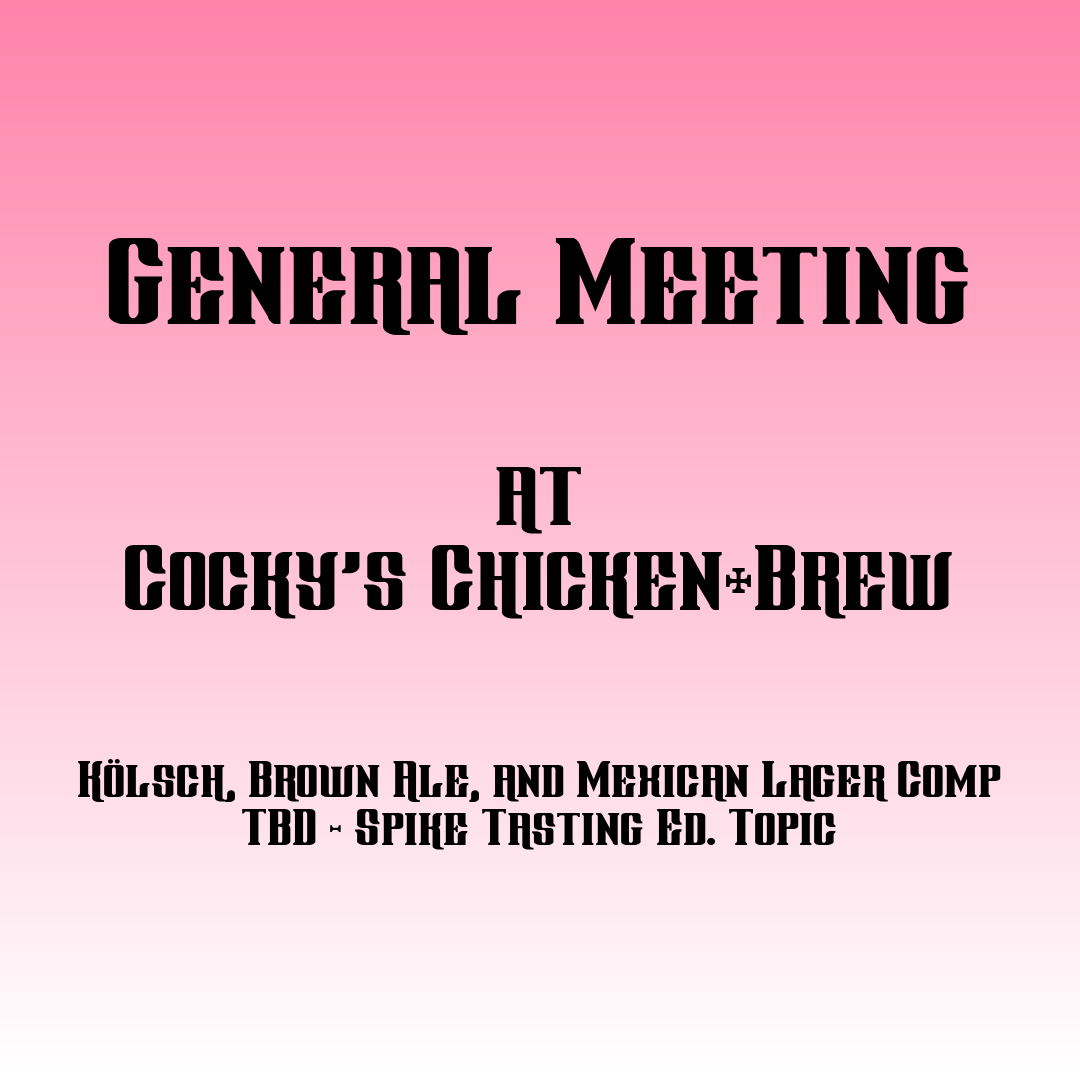
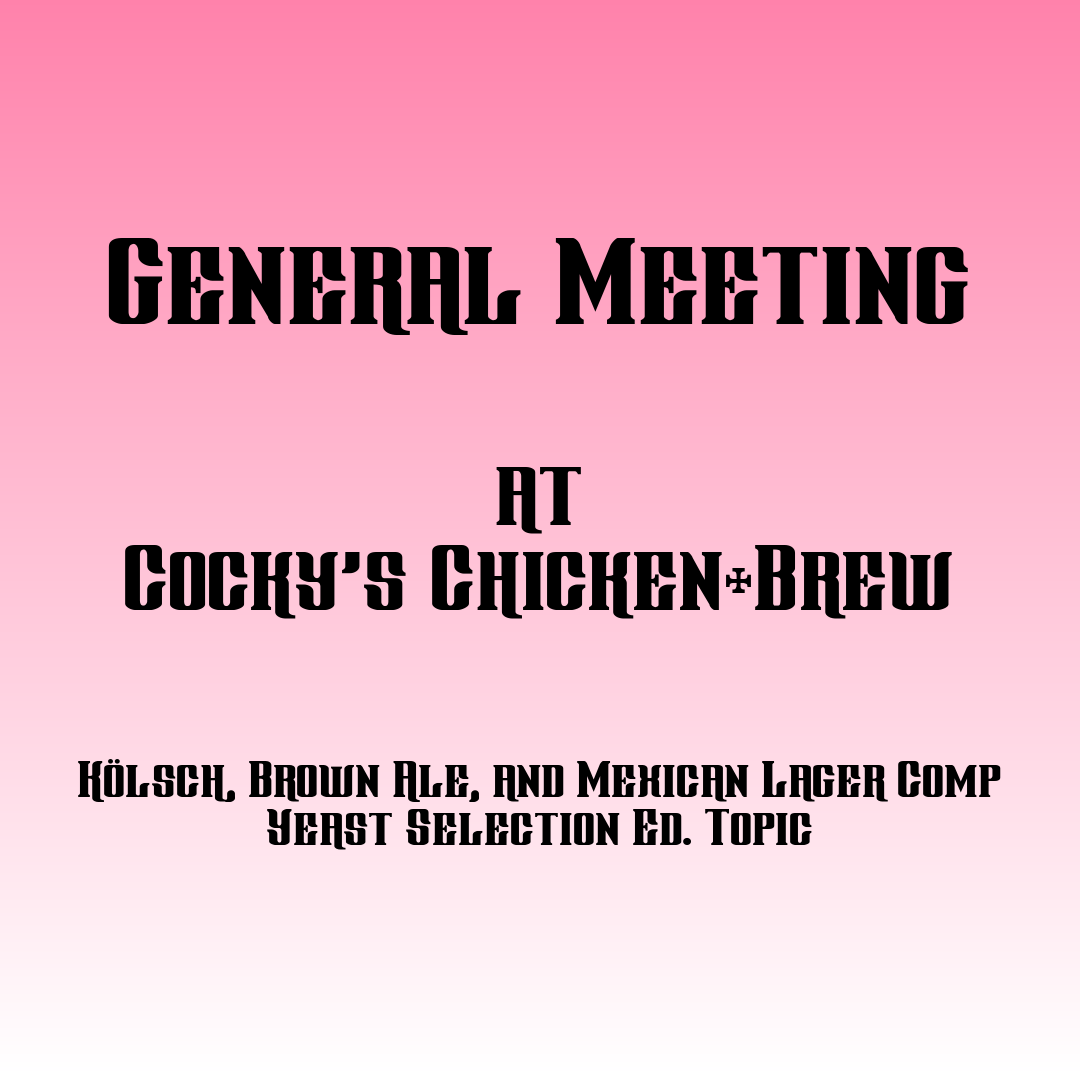
add meetings through june

Changed region(s): [[0.2139, 0.7333, 0.7944, 0.7944]]

diff --git a/site/content/events/2025-02-gm/index.md b/site/content/events/2025-02-gm/index.md
@@ -1,6 +1,6 @@
 ---
 title: February General Meeting
-date: 2024-12-02T13:47:35Z
+date: 2025-02-14T13:08:43Z
 startDate: 2025-02-20 18:00:00 -0700 MST
 endDate:  2025-02-20 20:00:00 -0700 MST
 location: Cocky's Chicken+Brew
@@ -13,7 +13,7 @@ General Meeting
 February 20 6pm  
 Cocky's Chicken+Brew  
 Gauntlet: Kölsch, Brown Ale, and Mexican Lager  
-Ed Topic: TBD - Spike Tasting  
+Ed Topic: Yeast Selection  
   
 Notes:  
   

diff --git a/site/content/events/2025-03-gm/index.md b/site/content/events/2025-03-gm/index.md
@@ -1,0 +1,21 @@
+---
+title: March General Meeting
+date: 2025-02-14T13:08:58Z
+startDate: 2025-03-20 18:00:00 -0700 MST
+endDate:  2025-03-20 20:00:00 -0700 MST
+location: Cocky's Chicken+Brew
+event: true
+---
+
+![image](event.png)
+ 
+General Meeting  
+March 20 6pm  
+Cocky's Chicken+Brew  
+Gauntlet: Oatmeal Stout  
+Ed Topic: Oxidation - Spike Tasting  
+  
+Notes:  
+  
+  * prospective members welcome  
+  

diff --git a/site/content/events/2025-06-gm/index.md b/site/content/events/2025-06-gm/index.md
@@ -1,0 +1,21 @@
+---
+title: June General Meeting
+date: 2025-02-14T13:09:13Z
+startDate: 2025-06-19 18:00:00 -0700 MST
+endDate:  2025-06-19 20:00:00 -0700 MST
+location: Cocky's Chicken+Brew
+event: true
+---
+
+![image](event.png)
+ 
+General Meeting  
+June 19 6pm  
+Cocky's Chicken+Brew  
+Gauntlet: Belgian Blond  
+Ed Topic: TBD  
+  
+Notes:  
+  
+  * prospective members welcome  
+  

diff --git a/site/content/events/2025-04-gm/index.md b/site/content/events/2025-04-gm/index.md
@@ -1,0 +1,21 @@
+---
+title: April General Meeting
+date: 2025-02-14T13:09:03Z
+startDate: 2025-04-17 18:00:00 -0700 MST
+endDate:  2025-04-17 20:00:00 -0700 MST
+location: Cocky's Chicken+Brew
+event: true
+---
+
+![image](event.png)
+ 
+General Meeting  
+April 17 6pm  
+Cocky's Chicken+Brew  
+Gauntlet: Red IPA  
+Ed Topic: TBD  
+  
+Notes:  
+  
+  * prospective members welcome  
+  

diff --git a/site/content/events/2025-05-gm/index.md b/site/content/events/2025-05-gm/index.md
@@ -1,0 +1,21 @@
+---
+title: May General Meeting
+date: 2025-02-14T13:09:09Z
+startDate: 2025-05-15 18:00:00 -0700 MST
+endDate:  2025-05-15 20:00:00 -0700 MST
+location: Cocky's Chicken+Brew
+event: true
+---
+
+![image](event.png)
+ 
+General Meeting  
+May 15 6pm  
+Cocky's Chicken+Brew  
+Gauntlet: Flower Beer  
+Ed Topic: TBD  
+  
+Notes:  
+  
+  * prospective members welcome  
+  
